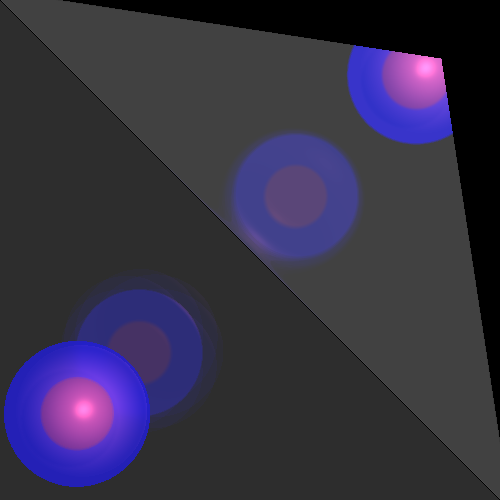
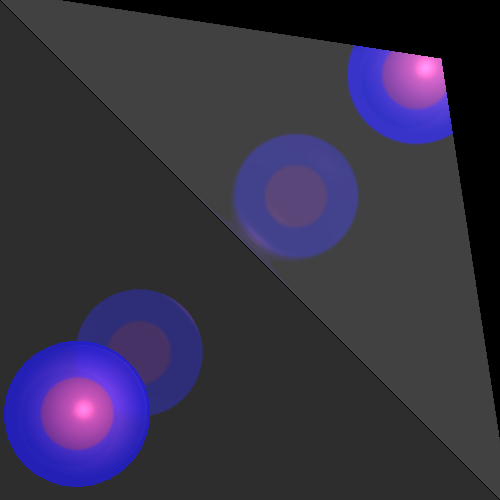
ci

diff --git a/src/renderer/RayTracerBasic.java b/src/renderer/RayTracerBasic.java
@@ -123,19 +123,21 @@ public class RayTracerBasic extends RayTracerBase {
     private List<Ray> multVecs(Ray orig, double radius){
         orig.getDir().normalize();
         List<Ray> rays= new LinkedList<>();
-        Point3D origIntersection = findClosestIntersection(orig)==null?
-                orig.getP0().add(orig.getDir().scale(MULTI_RAY_DEFAULT_DISTANCE)) : findClosestIntersection(orig).point;
-       // if(origIntersection==null)
-         //   origIntersection=
-       // Vector origExtended = orig.getDir().normalized().scale(origIntersection == null? MULTI_RAY_DEFAULT_DISTANCE : origIntersection.point.distance(orig.getP0()));
-        //        //Point3D origIntersection = findClosestIntersection(orig) == .point;
-        Vector ort=  perVec(orig.getDir()).normalize().scale(radius);/*new Vector(origIntersection == null ? orig.getP0()/*.add(origExtended) : origIntersection.point,*/
-       // ort.getDir().normalize();
-        for(int i=0 ; i<AMM_OF_RAYS ; i++){
-            ort = ort.RotateByRadians(orig.getDir(),(2*Math.PI)/(double)AMM_OF_RAYS);
-            //rays.add(new Ray(orig.getP0(),orig.getDir().add(ort.getDir()).normalize()));
-            rays.add(new Ray(orig.getP0(), origIntersection.add(ort).subtract(orig.getP0()).normalize()));
+        if(findClosestIntersection(orig)!=null){
+            Point3D origIntersection = findClosestIntersection(orig).point;
+            // if(origIntersection==null)
+            //   origIntersection=
+            // Vector origExtended = orig.getDir().normalized().scale(origIntersection == null? MULTI_RAY_DEFAULT_DISTANCE : origIntersection.point.distance(orig.getP0()));
+            //        //Point3D origIntersection = findClosestIntersection(orig) == .point;
+            Vector ort=  perVec(orig.getDir()).normalize().scale(radius);/*new Vector(origIntersection == null ? orig.getP0()/*.add(origExtended) : origIntersection.point,*/
+            // ort.getDir().normalize();
+            for(int i=0 ; i<AMM_OF_RAYS ; i++){
+                ort = ort.RotateByRadians(orig.getDir(),(2*Math.PI)/(double)AMM_OF_RAYS);
+                //rays.add(new Ray(orig.getP0(),orig.getDir().add(ort.getDir()).normalize()));
+                rays.add(new Ray(orig.getP0(), origIntersection.add(ort).subtract(orig.getP0()).normalize()));
+            }
         }
+
         rays.add(orig);
         return rays;
     }
